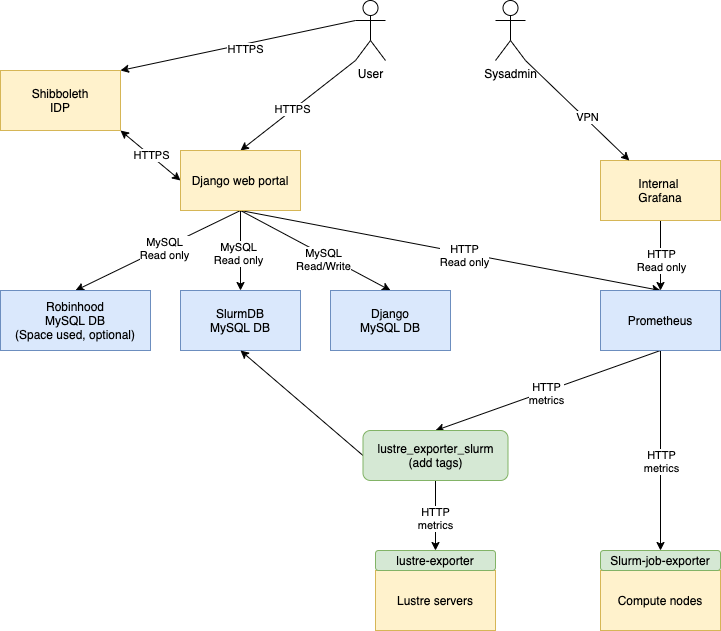
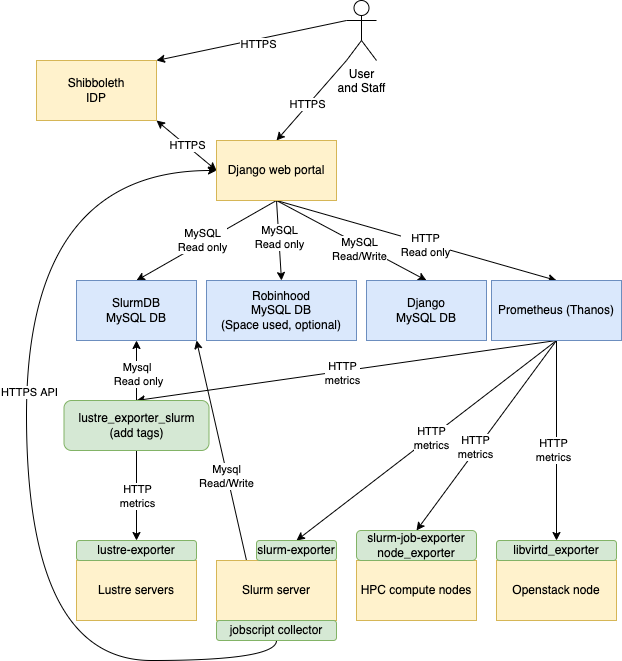
Updating design diagram

diff --git a/README.md b/README.md
@@ -13,6 +13,13 @@ The portal is composed of multiple independant modules:
 * Quotas
 * Top (only for staff)
 
+## Design
+Jobs and filesystems metrics are stored in Prometheus, multiple exporters are used to get this data, most are optional. 
+
+The Django portal will also access various MySQL databases to gather some informations. Timeseries are stored with Prometheus for better performance. Compatible alternative to Prometheus like Thanos, VictoriaMetrics and Grafana Mimir should work without any problems (Thanos is used in production). Recorder rules in Prometheus are used to pre-aggregate some stats for the portal.
+
+![Architecture diagram](docs/userportal.png)
+
 ## UI modules
 
 This portal is made to be modular, some modules can be disabled if the data required is not needed or collected. Some modules have optional dependencies, if the dependencies are not met some graphs will not be displayed.
@@ -94,18 +101,12 @@ Optional:
 
 ### Usersummary
 The usersummary page can be used for a quick diagnostic of a user to see their current quotas and last jobs.
+
 <a href="docs/usersummary.png"><img src="docs/usersummary.png" alt="Quotas and jobs of a user" width="100"/></a>
 
 #### Requirements
 * Access to the database of Slurm
 * slurm-job-exporter
-
-## Design
-Jobs and filesystems metrics are stored in Prometheus, multiple exporters are essentials to get this data.
-
-The Django portal will also access various MySQL databases to gather some informations. Timeseries are stored with Prometheus for better performance. Compatible alternative to Prometheus like Thanos, VictoriaMetrics and Grafana Mimir should work without any problems (Thanos is used in production). Recorder rules in Prometheus are used to pre-aggregate stats for the portal.
-
-![Architecture diagram](docs/userportal.png)
 
 ## Data sources
 Some features will not be available if the exporter required to gather the stats is not configured.
